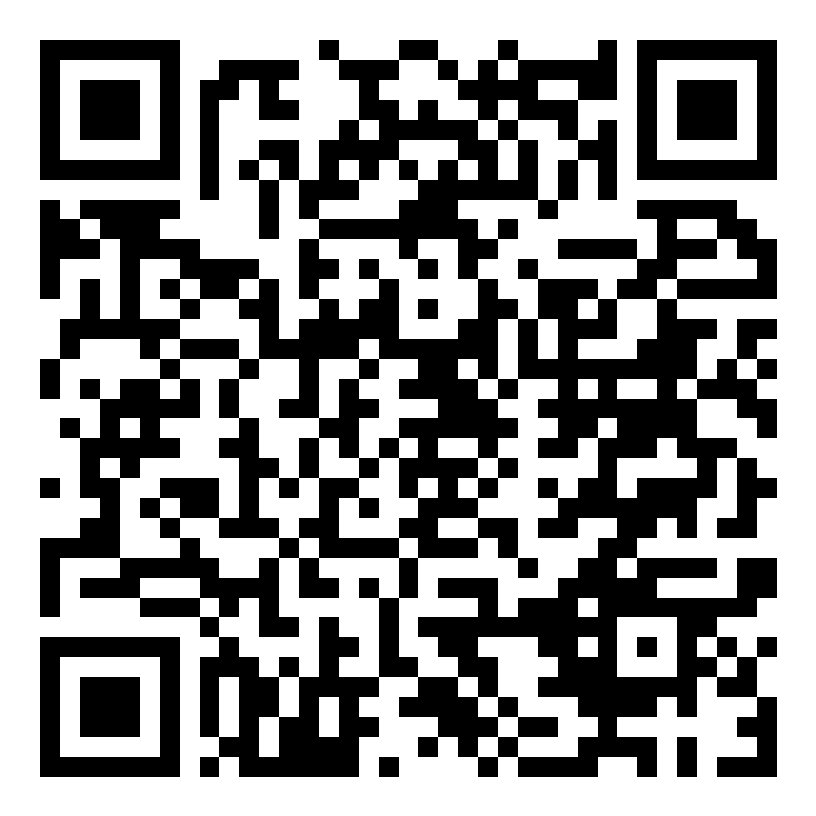
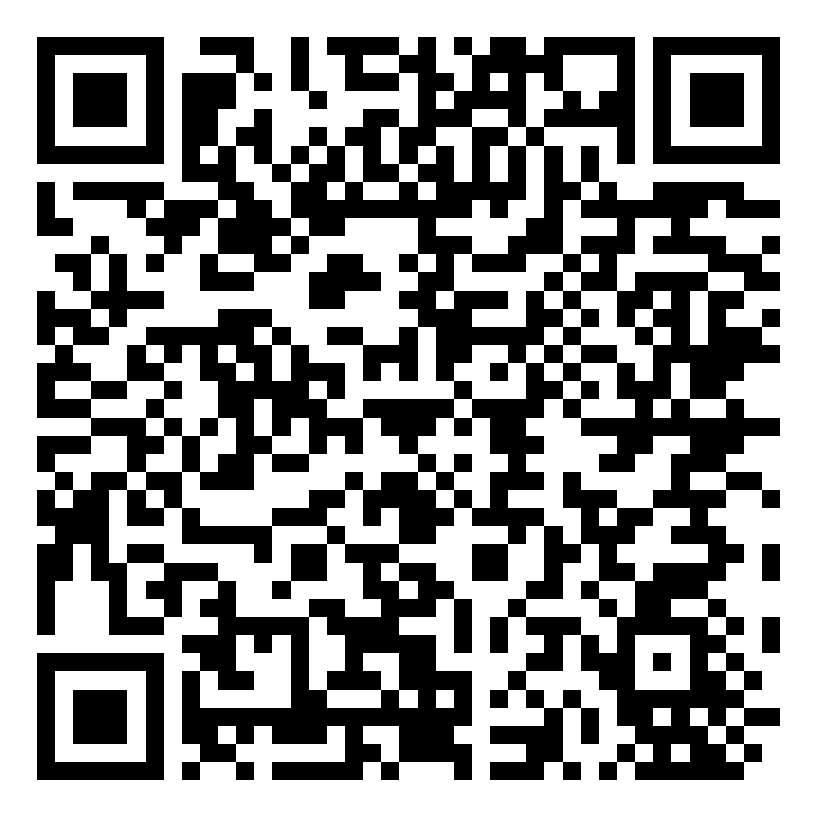
Mirror slides from workshops@686cf34

diff --git a/what-is-a-software-factory/index.html b/what-is-a-software-factory/index.html
@@ -1329,10 +1329,10 @@ Make it look great, in a retro 1980s gaming style</pre>
 
 <section class="slides-link" data-speaker="Matt &amp; Aldric">
   <h1>These slides</h1>
-  <a class="final-slides-qr" href="https://lean-software-production.github.io/slides/what-is-a-software-factory/" aria-label="Open these slides">
+  <a class="final-slides-qr" href="https://lean-software-production.github.io/what-is-a-software-factory/what-is-a-software-factory/" aria-label="Open these slides">
     <img src="assets/qr/slides.png" alt="QR code for these slides">
   </a>
-  <a class="slides-url" href="https://lean-software-production.github.io/slides/what-is-a-software-factory/">lean-software-production.github.io/slides/<br>what-is-a-software-factory</a>
+  <a class="slides-url" href="https://lean-software-production.github.io/what-is-a-software-factory/what-is-a-software-factory/">lean-software-production.github.io/what-is-a-software-factory/<br>what-is-a-software-factory</a>
 </section>
 
 </div>

diff --git a/README.md b/README.md
@@ -1,10 +1,10 @@
 # Lean Software Production slides
 
-Presentation decks from our live sessions. [Browse them on the slides site](https://lean-software-production.github.io/slides/).
+Presentation decks from our live sessions. [Browse them on the slides site](https://lean-software-production.github.io/what-is-a-software-factory/).
 
 | Session | Slides |
 | --- | --- |
-| What is a software factory? · September 2026 lightning lesson | [Open the deck](https://lean-software-production.github.io/slides/what-is-a-software-factory/) |
-| Build a Software Factory · Day 1, September 2026 cohort | [Open the deck](https://lean-software-production.github.io/slides/2026-09/day-1/) |
+| What is a software factory? · September 2026 lightning lesson | [Open the deck](https://lean-software-production.github.io/what-is-a-software-factory/what-is-a-software-factory/) |
+| Build a Software Factory · Day 1, September 2026 cohort | [Open the deck](https://lean-software-production.github.io/what-is-a-software-factory/2026-09/day-1/) |
 
 The decks are published from [the workshops repository](https://github.com/lean-software-production/workshops) by its [Publish slides workflow](https://github.com/lean-software-production/workshops/blob/main/.github/workflows/publish-slides.yml). Edit the source there; changes made directly in this repository will be overwritten by the next publish.
